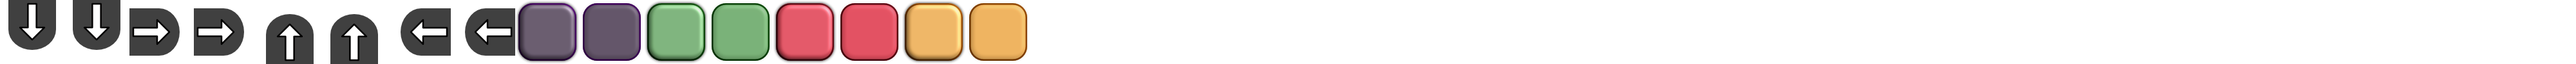
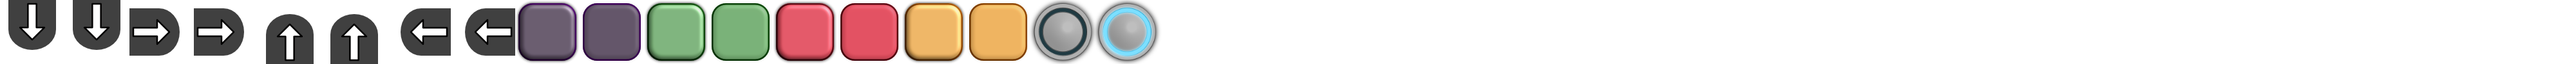
continued menu and started strength menu

Changed region(s): [[0.375, 0.0, 0.4688, 0.99]]

diff --git a/main.py b/main.py
@@ -35,38 +35,44 @@ rightButton = button.Button(2,1,(0,0),const.scale)
 upButton = button.Button(4,1,(0,0),const.scale)
 leftButton = button.Button(6,1,(0,0),const.scale)
 moveButtons = [downButton, rightButton, upButton, leftButton]
-liftButton = button.Button(10,1,(0,0),const.scale, const.sGameFont, "HISSIIN", (8,63,6)) # Button to exit a level
-itemButton = button.Button(14,1,(0,0),const.scale, const.sGameFont, " OTA\nESINE", (130,63,0)) # Button to pick up items
+liftButton = button.Button(10,1,(0,0),const.scale, const.gameFont(19), "HISSIIN", (8,63,6)) # Button to exit a level
+itemButton = button.Button(14,1,(0,0),const.scale, const.gameFont(23), " OTA\nESINE", (130,63,0)) # Button to pick up items
 # Checkpoint buttons
-nextFloorButton = button.Button(0,4,(0,0),const.scale, const.mGameFont, "Seuraava kerros", (8,63,6)) # Button to start a new level
+nextFloorButton = button.Button(0,4,(0,0),const.scale, const.gameFont(40), "Seuraava kerros", (8,63,6)) # Button to start a new level
 # Menu buttons
-startButton = button.Button(0,4,(0,0),const.scale,const.mGameFont, "Pelaa", (255,255,255))
-settingsButton = button.Button(0,4,(0,0),const.scale,const.mGameFont, "Asetukset", (255,255,255))
-infoButton = button.Button(0,4,(0,0),const.scale,const.mGameFont, "Tietoa", (255,255,255))
+startButton = button.Button(16,1,(0,0),const.scale)
+continueButton = button.Button(16,1,(0,0),const.scale)
+settingsButton = button.Button(16,1,(0,0),const.scale)
+infoButton = button.Button(16,1,(0,0),const.scale)
+backButton = button.Button(0,4,(0,0),const.scale*0.45, const.gameFont(13), "Takaisin päävalikkoon")
+readyButton = button.Button(0,4,(0,0),const.scale*0.45, const.gameFont(15), "Aloita seikkailu!")
+
 
 # All buttons are handled from this array
-buttons = [downButton,rightButton,upButton,leftButton,liftButton,itemButton,nextFloorButton,startButton,settingsButton,infoButton]
+buttons = [downButton,rightButton,upButton,leftButton,liftButton,itemButton,nextFloorButton,startButton,continueButton,settingsButton,infoButton,backButton,readyButton]
 
 # Strength deck initialization
-deck = strengthDeck.StrengthDeck((4,8,18,19,24,25),const.sGameFont)
+deck = strengthDeck.StrengthDeck((4,8,18,19,24,25))
 
 # Background color
 backg = (160,209,255)
 menuback = (180,200,215)
 # Menu elements
 menuBackground = picture.Picture("images/menu_screen.png", (4000,2000), (0,0), 0.45)
+strengthBackground = picture.Picture("images/strength_menu.png", (2500,1500), (0,0), 0.45)
 
 async def main():
 
     # If active, shows useful information about the game. (For debug purposes)
-    debugMode = True
+    debugMode = False
     screenSize = pygame.display.get_window_size() # Used to check changes in screen size
 
     # gameStatus: Shows the state of the game
     #   "level": Game is running a level
     #   "menu": Game is at the starting menu
+    #   "strengths": Game is at the strength picking menu
     #   "checkpoint": Game is at a state in between levels
-    gameStatus = "menu"
+    gameStatus = "level"
 
     # Tracks the floor/level the player is at
     floorNumber = 1
@@ -75,11 +81,11 @@ async def main():
     lobby = room.Room(const.lobbyLayout[0])
 
     # Shopping list
-    shoppinglist = shoppingList.ShoppingList(const.sGameFont, const.xsGameFont,(0,0))
+    shoppinglist = shoppingList.ShoppingList((0,0))
 
     # Texts
-    checkpointText = text.Text(const.lGameFont, f'Kerros {floorNumber} suoritettu.', (0,0))   # Checkpoint text
-    debugText = text.Text(const.sGameFont, f'FPS: {round(clock.get_fps())}',(20,20))          # Debug text
+    checkpointText = text.Text(const.gameFont(50), f'Kerros {floorNumber} suoritettu.', (0,0))   # Checkpoint text
+    debugText = text.Text(const.gameFont(20), f'FPS: {round(clock.get_fps())}',(20,20))          # Debug text
 
     # Updates all positions of all elements on the screen, when the screen size is changed
     def updateAllPositions(newScreenSize):
@@ -96,10 +102,14 @@ async def main():
         deck.updatePos((floor.currentRoom.rect.left, newScreenSize[1]/2))
         checkpointText.updatePos((newScreenSize[0]/2,newScreenSize[1]/6),True)
         nextFloorButton.updatePos((newScreenSize[0]/2,newScreenSize[1]*4/5))
-        startButton.updatePos((newScreenSize[0]/2, newScreenSize[1]/2))
-        settingsButton.updatePos((newScreenSize[0]/2, newScreenSize[1]/2+100))
-        infoButton.updatePos((newScreenSize[0]/2, newScreenSize[1]/2+200))
+        startButton.updatePos((newScreenSize[0]/2-330, newScreenSize[1]/2-107))
+        continueButton.updatePos((newScreenSize[0]/2-330, newScreenSize[1]/2+14))
+        settingsButton.updatePos((newScreenSize[0]/2-330, newScreenSize[1]/2+135))
+        infoButton.updatePos((newScreenSize[0]/2-330, newScreenSize[1]/2+256))
         menuBackground.updatePos((newScreenSize[0]/2,newScreenSize[1]/2))
+        strengthBackground.updatePos((newScreenSize[0]/2,newScreenSize[1]/2))
+        backButton.updatePos(((newScreenSize[0]/2-450,newScreenSize[1]/2+295)))
+        readyButton.updatePos(((newScreenSize[0]/2+450,newScreenSize[1]/2+295)))
     # Called once at the start to get everything in place
     updateAllPositions(screenSize)
 
@@ -125,9 +135,22 @@ async def main():
             screen.fill(menuback)
             menuBackground.draw(screen)
             startButton.draw(screen)
+            continueButton.draw(screen)
             settingsButton.draw(screen)
             infoButton.draw(screen)
             if startButton.activeFinger:
+                gameStatus = "strengths"
+
+        # THE STRENGTH MENU
+        if gameStatus == "strengths":
+            screen.fill(menuback)
+            menuBackground.draw(screen)
+            strengthBackground.draw(screen)
+            backButton.draw(screen)
+            readyButton.draw(screen)
+            if backButton.activeFinger:
+                gameStatus = "menu"
+            if readyButton.activeFinger:
                 gameStatus = "level"
 
 

diff --git a/shoppingList.py b/shoppingList.py
@@ -10,7 +10,7 @@ class ShoppingList():
     # titleFont: font for the title text
     # textFont: font for the (smaller) text used for the item list
     # pos: position of the list on the screen
-    def __init__(self, titleFont, textFont, pos):
+    def __init__(self, pos):
         # self.contents has 5 lists of type [item name, items posessed, items needed] for each item rarity level
         self.pos = pos
         self.contents = []
@@ -20,9 +20,9 @@ class ShoppingList():
         self.contents.append([const.shop[1][randint(0,4)],0,6])
         self.contents.append([const.shop[0][randint(0,4)],0,10])
         self.back = picture.Picture("images/shoplist.png", (230,230), pos) # Background image
-        self.title = text.Text(titleFont, "Ostoslista",(self.back.rect.left+13,self.back.rect.top+13)) # Title text
-        self.text1 = text.Text(textFont, [self.contents[i][0] for i in range(len(self.contents))], (self.back.rect.left+13,self.back.rect.top+50), (0,0,0), 10) # Item names
-        self.text2 = text.Text(textFont, [f'{self.contents[i][1]} / {self.contents[i][2]}' for i in range(len(self.contents))], (self.back.rect.right-55,self.back.rect.top+50),(0,0,0), 10) # item quantities / needs
+        self.title = text.Text(const.gameFont(), "Ostoslista",(0,0)) # Title text
+        self.text1 = text.Text(const.gameFont(15), [self.contents[i][0] for i in range(len(self.contents))], (0,0), (0,0,0), 10) # Item names
+        self.text2 = text.Text(const.gameFont(15), [f'{self.contents[i][1]}/{self.contents[i][2]}' for i in range(len(self.contents))], (0,0),(0,0,0), 10) # item quantities / needs
         # Rest are for showing item icon upon receiving item
         itemSpriteSheet = pygame.image.load('images/items.png').convert() # Load items' spritesheet
         self.itemSprite = spriteSheet.SpriteSheet(itemSpriteSheet)
@@ -50,9 +50,9 @@ class ShoppingList():
     def updatePos(self, pos):
         self.pos = pos
         self.back.updatePos(pos) # update background
-        self.title.updatePos((self.back.rect.left+13,self.back.rect.top+13)) # Update texts
+        self.title.updatePos((self.back.rect.left+10,self.back.rect.top+10)) # Update texts
         self.text1.updatePos((self.back.rect.left+13,self.back.rect.top+50))
-        self.text2.updatePos((self.back.rect.right-55,self.back.rect.top+50))
+        self.text2.updatePos((self.back.rect.right-50,self.back.rect.top+50))
 
     # Draw the list and the texts on the screen
     def draw(self, screen):

diff --git a/floorClass.py b/floorClass.py
@@ -21,8 +21,8 @@ class Floor():
         self.player = playerClass.Player(moveButtons, (const.worldWidth/2,const.worldHeight/2)) # Player initialization
         self.frame = picture.Picture("images/frame.png", (710,710), (0,0)) # Frame image for game area
         self.timer = const.floorTime # Timer
-        self.timerText = text.Text(const.mGameFont, time.strftime('%M:%S',time.gmtime(self.timer)),(0,0))   # Timer
-        self.floorText = text.Text(const.mGameFont, f'Kerros {floorNumber}', (0,0)) # Floor number
+        self.timerText = text.Text(const.gameFont(32), time.strftime('%M:%S',time.gmtime(self.timer)),(0,0))   # Timer
+        self.floorText = text.Text(const.gameFont(32), f'Kerros {floorNumber}', (0,0)) # Floor number
         self.birdsEye = pygame.Surface((self.currentRoom.background.get_width(), self.currentRoom.background.get_height())).convert() # multiple rooms view
         self.birdsEyeLevel = 0
         self.timeStop = False
@@ -122,7 +122,7 @@ class Floor():
         self.currentRoom.updatePos(screenCenter, screenMove)
         self.player.updatePos(screenMove)
         self.frame.updatePos(screenCenter)
-        self.timerText.updatePos((screenCenter[0]-141,screenCenter[1]-341))
+        self.timerText.updatePos((screenCenter[0]-143,screenCenter[1]-341))
         self.floorText.updatePos((screenCenter[0]+46,screenCenter[1]-341))
         self.doors[0].center = (screenCenter[0], screenCenter[1] + const.tileSize*8)
         self.doors[1].center = (screenCenter[0] + const.tileSize*8, screenCenter[1])

diff --git a/strengthDeck.py b/strengthDeck.py
@@ -9,7 +9,7 @@ import math
 class StrengthDeck():
     # cards: list of integers corresponding to the wanted strengths' numbers
     # font: font used by the deck to show texts
-    def __init__(self, cards, font):
+    def __init__(self, cards):
         self.pos = (0,0)
         self.shinePhase = 0
         overlaySpriteSheet = pygame.image.load('images/card_overlay.png').convert() # Load strength spritesheet
@@ -22,7 +22,7 @@ class StrengthDeck():
             overlay = self.overlaySprite.getImage(0,250,350,const.scale/2)
             rect = overlay.get_rect()
             self.overlays.append((overlay,rect))
-        self.activateButton = button.Button(12,1,(0,0), const.scale, font, "Aktivoi\n  kortti")
+        self.activateButton = button.Button(12,1,(0,0), const.scale, const.gameFont(19), "Aktivoi\nkortti")
         self.background: pygame.Surface = None # Background to blit every card image
 
     # Update position of the cards on the screen

diff --git a/item.py b/item.py
@@ -16,7 +16,7 @@ class Item():
         self.image = self.itemSprite.getImage(self.picType,35,35,const.scale)
         self.rect = self.image.get_rect(center = pos)
         self.name = self.rollItem(roomDistance) # Determine item name/type
-        self.text = text.Text(const.sGameFont,self.name,pos,(46, 49, 79)) # Item name as text
+        self.text = text.Text(const.gameFont(),self.name,pos,(46, 49, 79)) # Item name as text
 
     # Update item pos
     def updatePos(self, pos):

diff --git a/room.py b/room.py
@@ -236,4 +236,4 @@ class Room():
                 if i: # Set the previous tile as neighbour if this isn't the first tile
                     self.layout[j][i-1].setNeighbour(1,c)
         # Set the title for the item names list
-        self.itemNamesTitle = text.Text(const.mGameFont,"Huoneessa olevat esineet:",(0,0),(25, 28, 54))
+        self.itemNamesTitle = text.Text(const.gameFont(32),"Huoneessa olevat esineet:",(0,0),(25, 28, 54))

diff --git a/const.py b/const.py
@@ -10,11 +10,8 @@ worldHeight = 700
 scale = 1
 
 # Different font sizes
-xxsGameFont = pygame.font.SysFont(None, 17)
-xsGameFont = pygame.font.SysFont(None, 23)
-sGameFont = pygame.font.SysFont(None, 30)
-mGameFont = pygame.font.SysFont(None, 50)
-lGameFont = pygame.font.SysFont(None, 80)
+def gameFont(size=30):
+    return pygame.font.SysFont("Courier", size)
 
 # Tile size (square of (tileSize x tileSize))
 tileSize = 46
